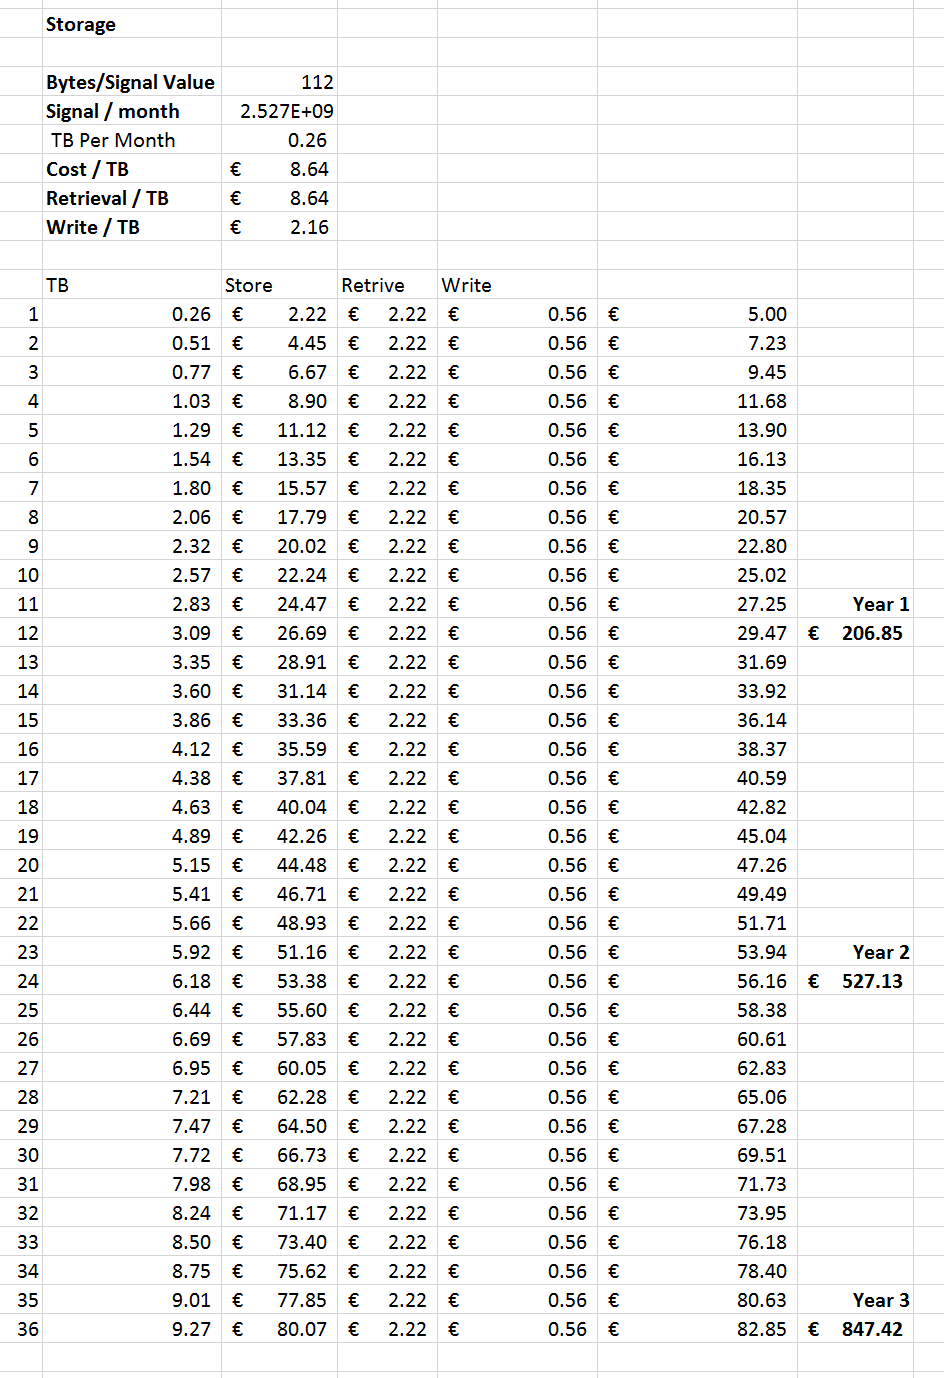
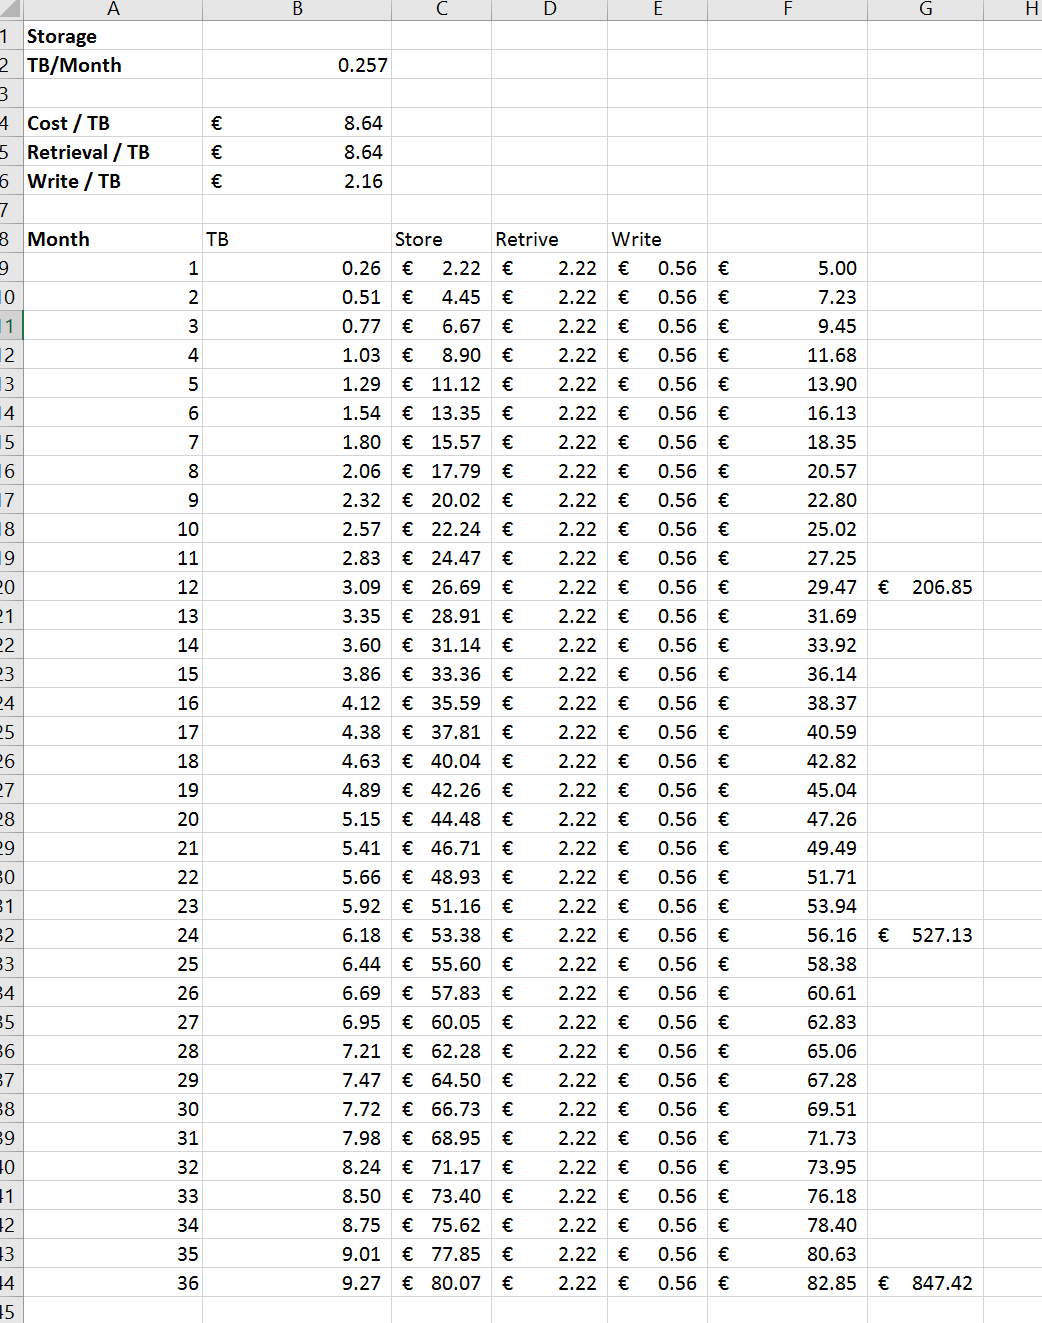
Added Storage Cost

diff --git a/_posts/2016-12-06-BeijerAutomotiveHackfest.md b/_posts/2016-12-06-BeijerAutomotiveHackfest.md
@@ -667,7 +667,7 @@ Price of VM: 		€0.253 / hr
 Number of hours: 	744
 Storage: 			N/A
 
-This will result in a stable price of € 941.
+This will result in a stable price of € 941 per month.
 
 ###Cost of Push Scenario###
 
@@ -697,6 +697,32 @@ Table 4: EventHubCost 1 per 10 sec
 This will result in a lower number of messages (2,527 million per month) and lower price ofcours and with 1 signal per 10 second the total price will be € 87,-.
 
 ###Storage Cost###
+Next tot the processing also the storage of the data introduces some cost. For the calcuation we use the following constants as shown in table 4:
+![Table 4: Storage Cost constants](https://github.com/svandenhoven/IoTArchitecture/blob/master/images/CostConstants.PNG.PNG)
+Table 4: Storage Cost constants
+
+This table 4 shows that per month there will be 2.57 TB of data will be produced. The cost for storage has 3 parts:
+Storage: 	€ 8.64 per TB/month
+retrieval 	€ 8.64 per TB/month
+Write 		€ 2,16 per TB/month
+
+In summary this will result in the following cost for 3 years with 1 signal per second. We assume that data will removed after 3 years, which means that cost are stable after 3 years.
+
+Storage Cost Year 1: 	€ 2,068
+Storage Cost Year 2: 	€ 5,271
+Storage Cost Year 3: 	€ 8,474
+Storage Cost Year >3: 	€ 8,474
+
+The cost when 1 signal per 10 seconds is retrieved is
+Storage Cost Year 1: 	€ 206,-
+Storage Cost Year 2: 	€ 527,-
+Storage Cost Year 3: 	€ 847,-
+Storage Cost Year >3: 	€ 847,-
+
+THe cost per month for retrieving 1 signal per 10 seconds per car is shown in table 5.
+
+![Table 5: Storage Cost 1 per 10 sec](https://github.com/svandenhoven/IoTArchitecture/blob/master/images/Storagecost 1 per 10 sec.PNG)
+Table 5: Storage Cost 1 per 10 sec
 
 
 ###Cost of using IOT Hub###
@@ -708,21 +734,32 @@ The cost of the different solution is as follows:
 
 ####Pull scenario with 1 message per 10 seconds####
 Azure Function:
-	Storage Cost: 			
-	Azure Function Cost: 	
-	Event Hub Cost: 		87,-
+	Storage Cost: 			€ 70,- (€ 847 / 12)
+	Azure Function Cost: 	€ 36,-
+	Event Hub Cost: 		€ 87,-
+	Total cost: 			€ 193,-
 
 Service Fabric:
-	Storage Cost: 	
-	Service Fabric Cost:
-	Event Hub Cost:
+	Storage Cost: 			€ 70,- (€ 847 / 12)
+	Service Fabric Cost: 	€ 1,864
+	Event Hub Cost: 		€ 87,-
+	Total Cost: 			€ 2,021
 
 Azure WebJob:
-	Storage Cost: 	
-	App Web Cost:
-	Event Hub Cost:	
+	Storage Cost: 			€ 70,- (€ 847 / 12)
+	App Web Cost: 			€ 941
+	Event Hub Cost:			€ 87,-
+	Total Cost: 			€ 1,098
+	
 
-####Push scenario with 1 message per second####
+####Push scenario with 1 message per 10 second####
+
+The cost for the Push scenario wull only introduce Event Hub and Storage Cost:
+	Storage Cost: 			€ 70,- (€ 847 / 12)
+	Event Hub Cost: 		€ 87,-
+	Total cost: 			€ 147,-
+
+The cost for the processing at the customer at Beijer is not included in this.
 
 Conclusion
 ----------
